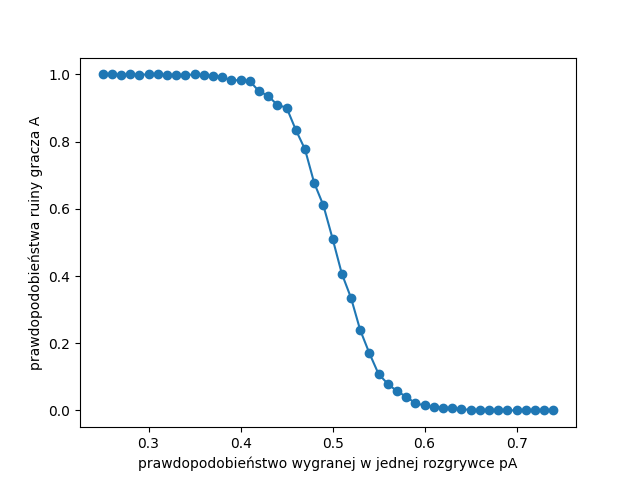
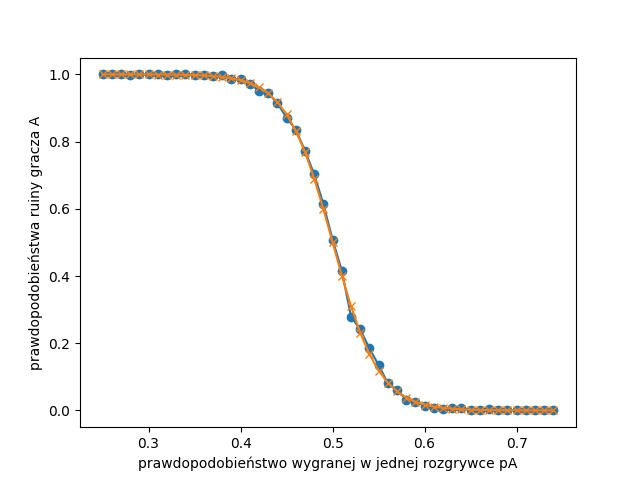
lab1 update

diff --git a/lab1/ruina.py b/lab1/ruina.py
@@ -48,22 +48,35 @@ def ruin_prob(data, N, player='A'):
 def B():
     x = []
     y = []
+    y2 = []
     prob_a = 0.25
+    a = 10
+    b = 10
     for i in range(50):
         prob_tmp = prob_a + i / 100
-        r = ruin(a=10, b=10, prob_a=prob_tmp, N=1000)
+        r = ruin(a=a, b=b, prob_a=prob_tmp, N=1000)
         y.append(r['pWinB'])
         x.append(prob_tmp)
+        l = ((1 - prob_tmp) / prob_tmp) ** a - ((1 - prob_tmp) / prob_tmp) ** (a + b)
+        m = 1 - ((1 - prob_tmp) / prob_tmp) ** (a + b)
+        if prob_tmp == 0.5:
+            y2.append(1 - a / (a + b))
+        else:
+            y2.append(l / m)
 
     plt.plot(x, y, marker='o')
     plt.xlabel('prawdopodobieństwo wygranej w jednej rozgrywce pA')
     plt.ylabel('prawdopodobieństwa ruiny gracza A')
+
+    plt.plot(x, y2, marker='x')
+
     plt.show()
 
 
 def C():
     x = []
     y = []
+    y2 = []
     start_a = 10
     for i in range(80):
         a_temp = start_a + i
@@ -73,7 +86,15 @@ def C():
         plt.ylabel('prawdopodobieństwa ruiny gracza A')
         x.append(a_temp)
 
+        l = ((1 - 0.5) / 0.5) ** a_temp - ((1 - 0.5) / 0.5) ** (a_temp + (100 - a_temp))
+        m = 1 - ((1 - 0.5) / 0.5) ** (a_temp + (100 - a_temp))
+        if 0.5 == 0.5:
+            y2.append(1 - a_temp / (a_temp + (100 - a_temp)))
+        else:
+            y2.append(l / m)
+
     plt.plot(x, y, marker='o')
+    plt.plot(x, y2, marker='x')
     plt.show()
 
 
@@ -117,6 +138,7 @@ def F():
 
     plt.hist(x, density=True, bins=50)
     plt.show()
+
 
 def F2():
     # Set the number of simulations to run and the number of games per simulation
@@ -169,4 +191,4 @@ def G():
     plt.show()
 
 
-F2()
+C()
